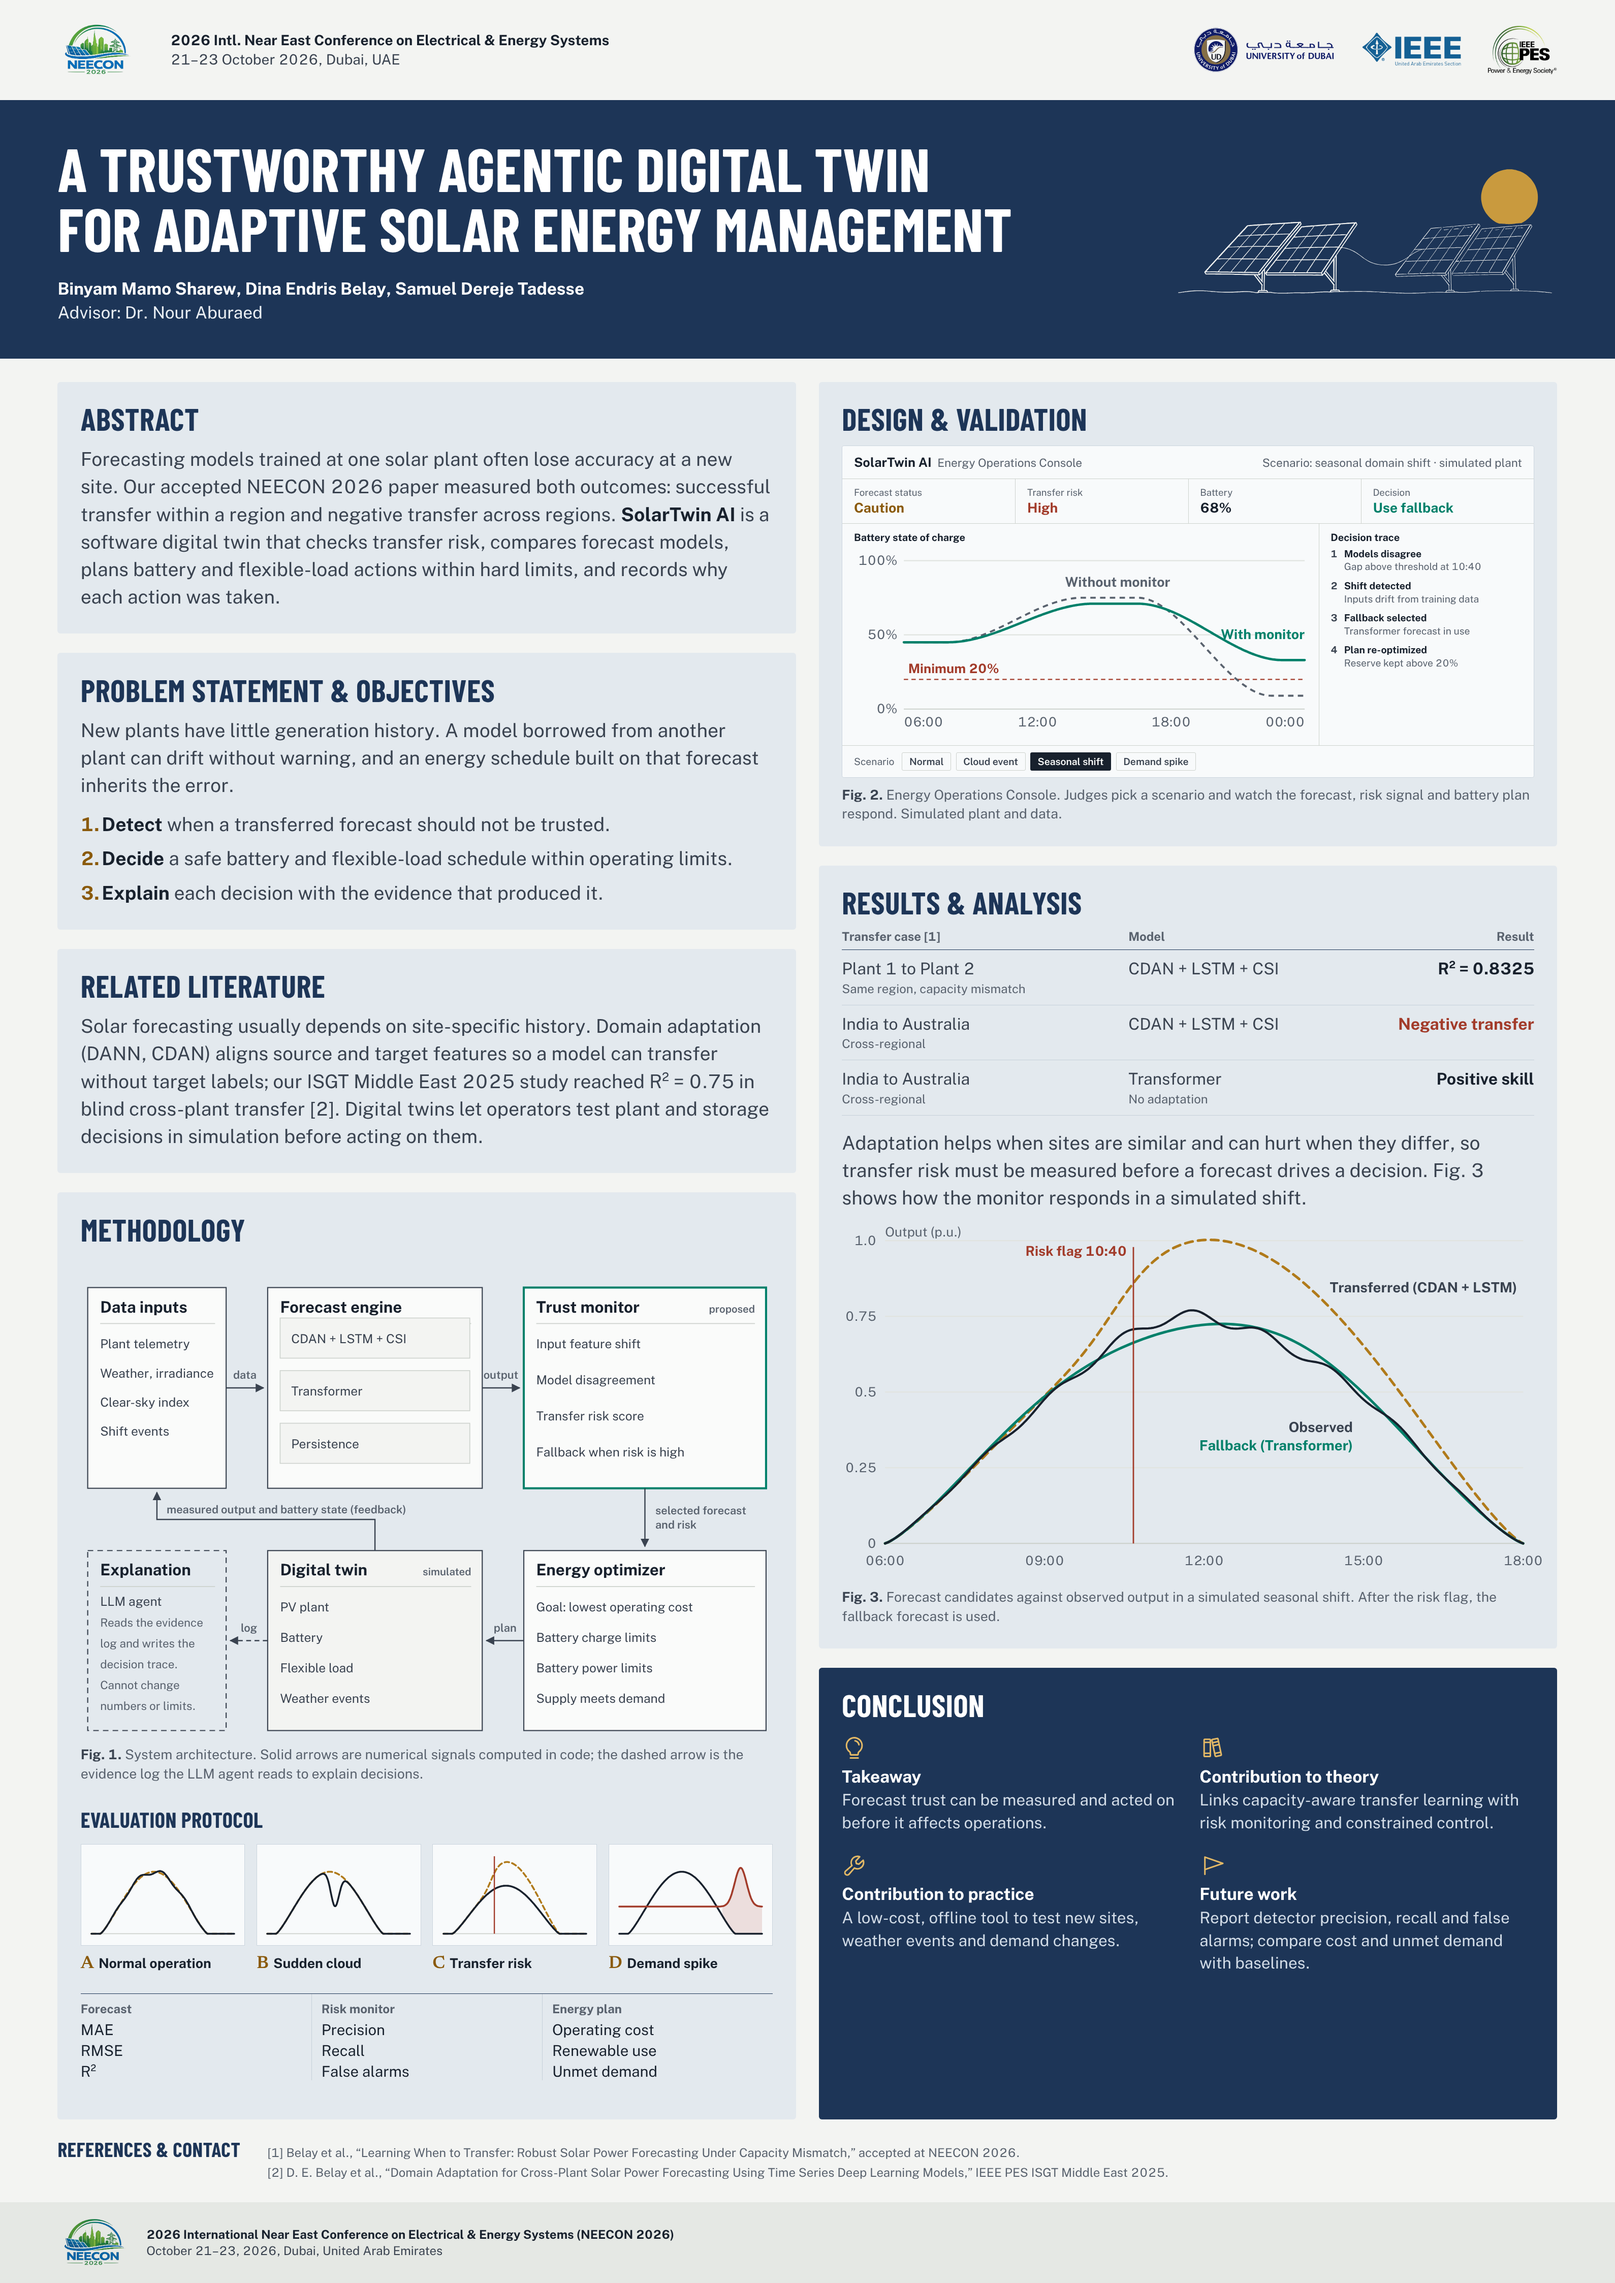
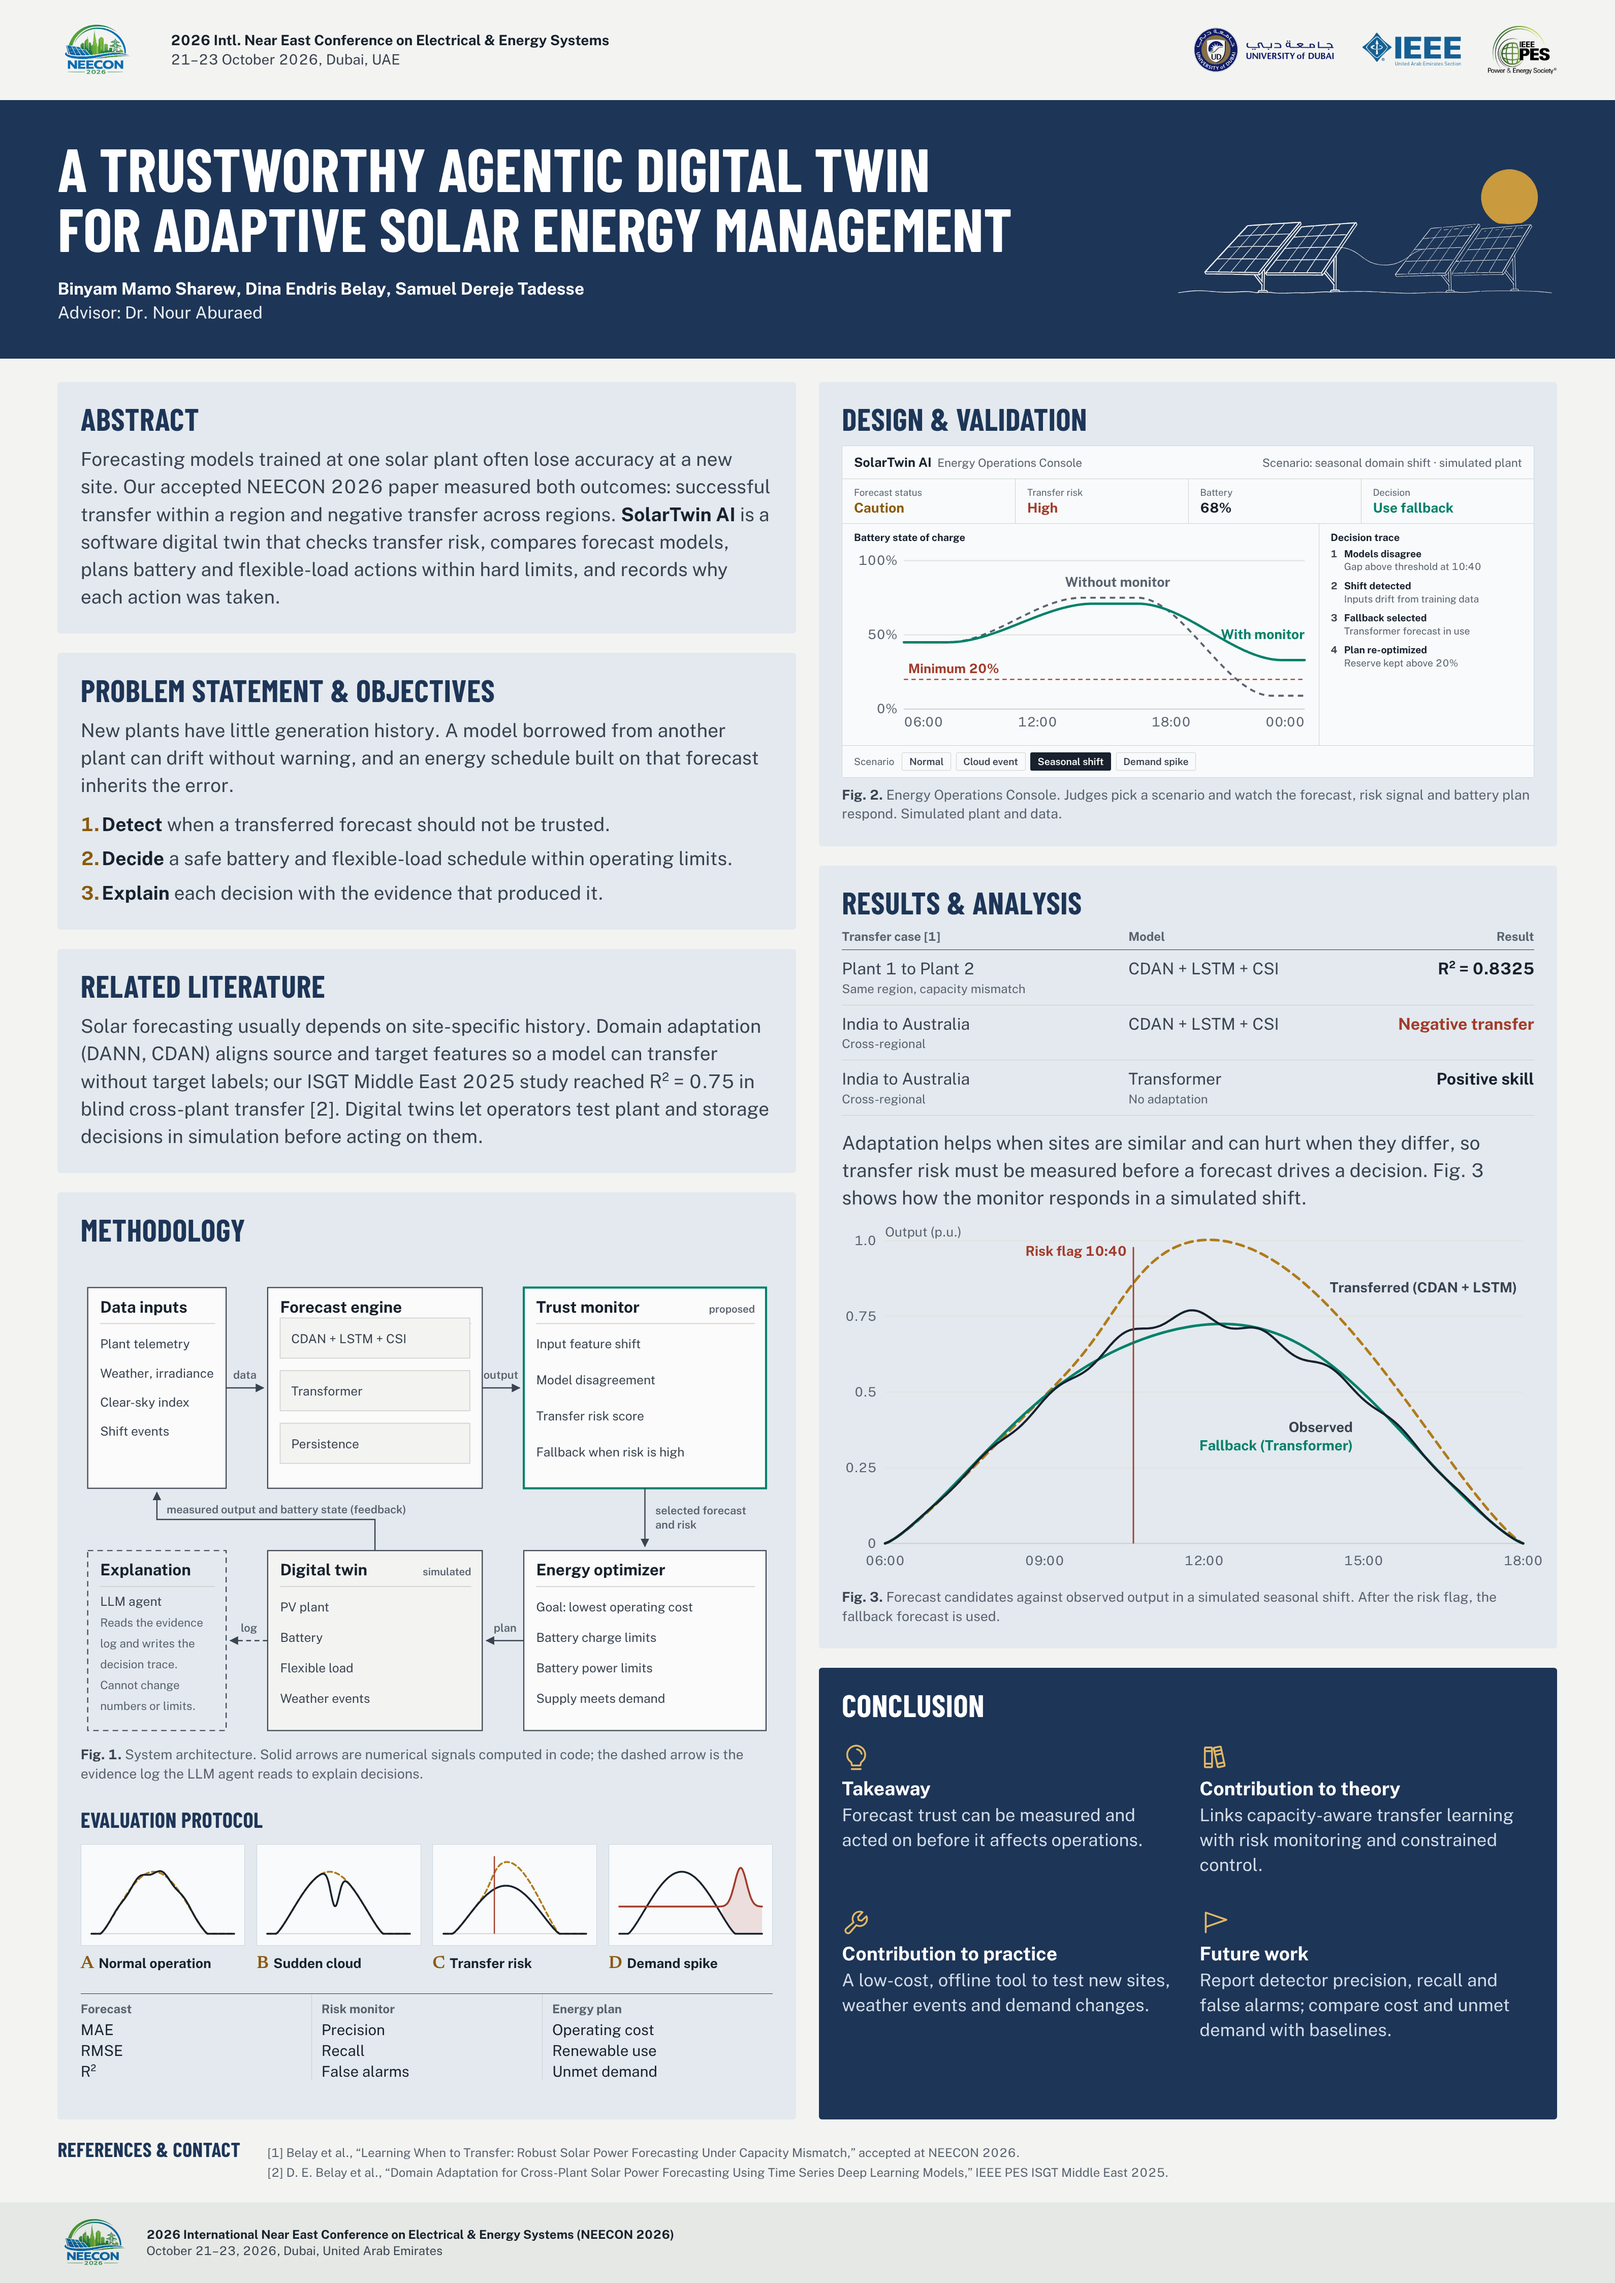
Option B: larger conclusion text
Claude-Session: https://claude.ai/code/session_01CkHf4KBr9uHmvrqkf81VpE

Changed region(s): [[0.7474, 0.7477, 0.9343, 0.9034], [0.5294, 0.7788, 0.7163, 0.8723]]

diff --git a/poster/option-b.html b/poster/option-b.html
@@ -200,6 +200,10 @@
   section.key .concl h3 { color: #FFFFFF; }
   section.key .concl p { color: #D2DCE7; }
   section.key .concl .ico { color: #E2B866; }
+  section.key .concl { row-gap: 16mm; margin-top: 6mm; }
+  section.key .concl .ico { font-size: 15mm; }
+  section.key .concl h3 { font-size: 28pt; }
+  section.key .concl p { font-size: 26pt; }
   .refs { border-top: 0; padding-top: 10mm; }
   .refs h2 { font-size: 30pt; }
 </style>

diff --git a/poster/src/option-b.html b/poster/src/option-b.html
@@ -200,6 +200,10 @@
   section.key .concl h3 { color: #FFFFFF; }
   section.key .concl p { color: #D2DCE7; }
   section.key .concl .ico { color: #E2B866; }
+  section.key .concl { row-gap: 16mm; margin-top: 6mm; }
+  section.key .concl .ico { font-size: 15mm; }
+  section.key .concl h3 { font-size: 28pt; }
+  section.key .concl p { font-size: 26pt; }
   .refs { border-top: 0; padding-top: 10mm; }
   .refs h2 { font-size: 30pt; }
 </style>
